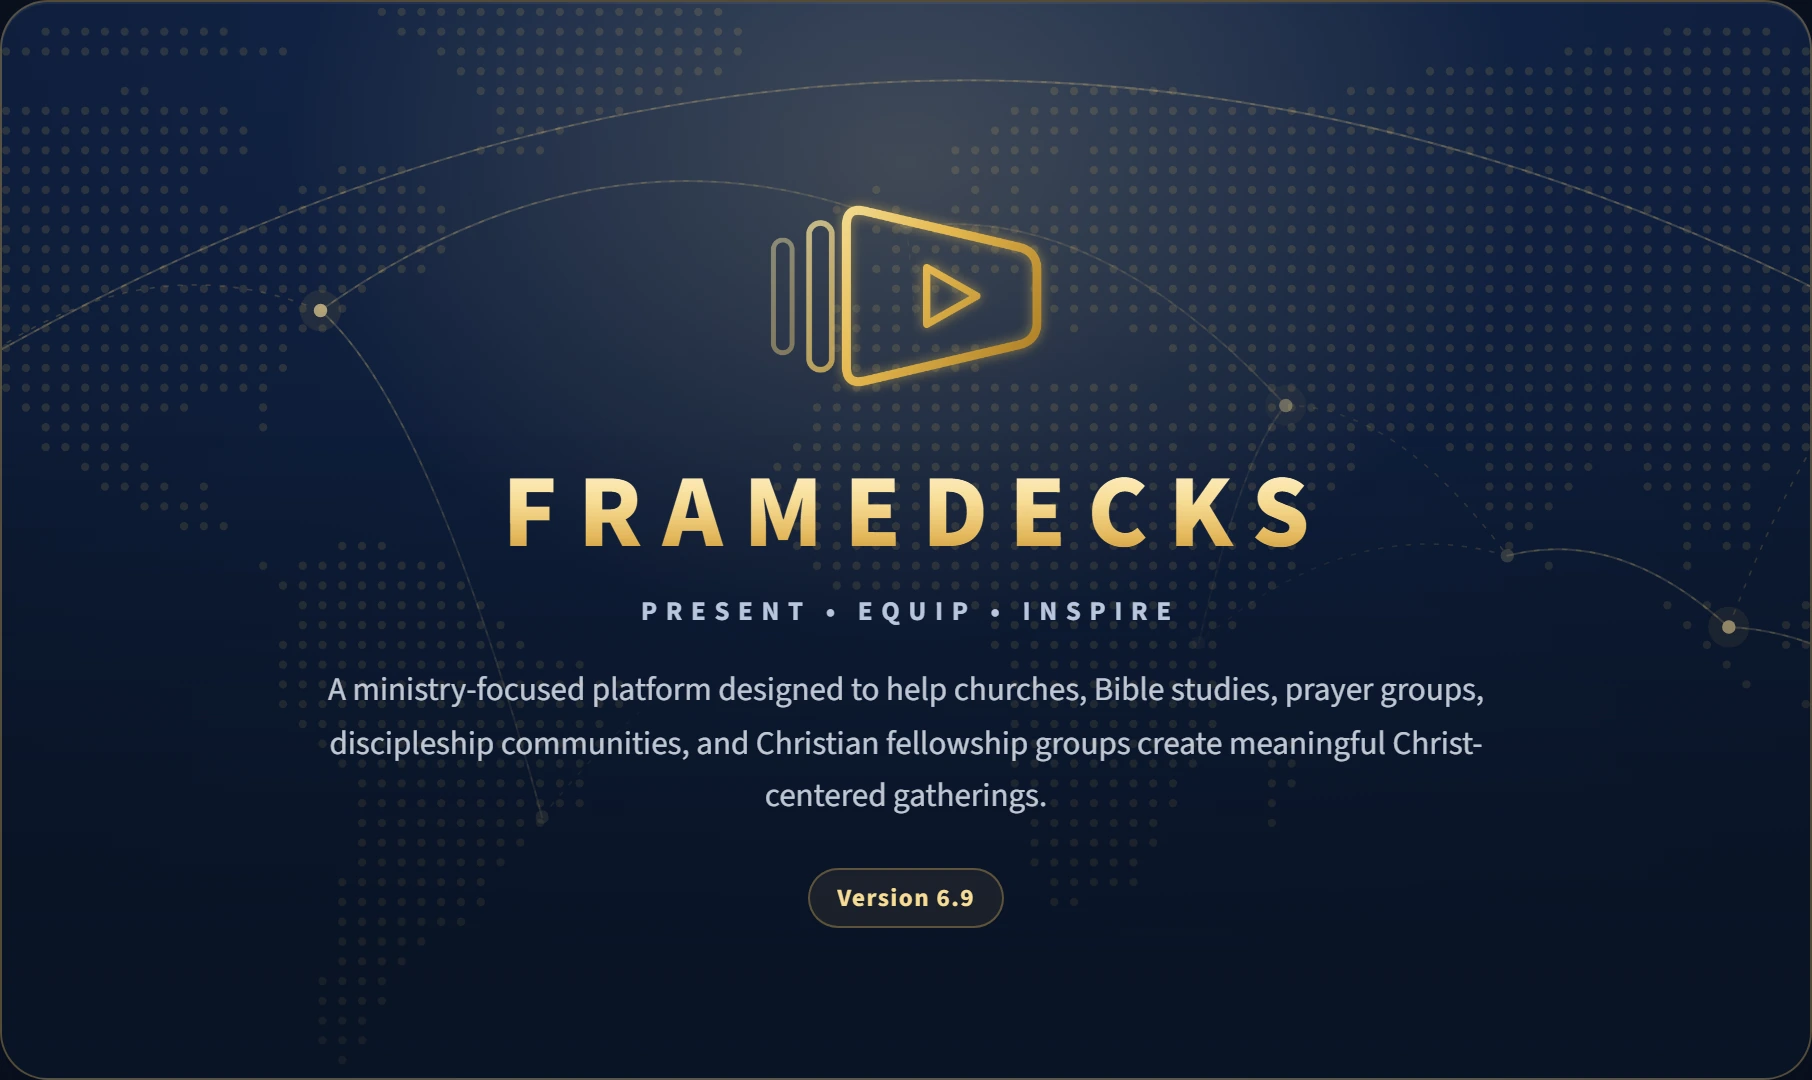
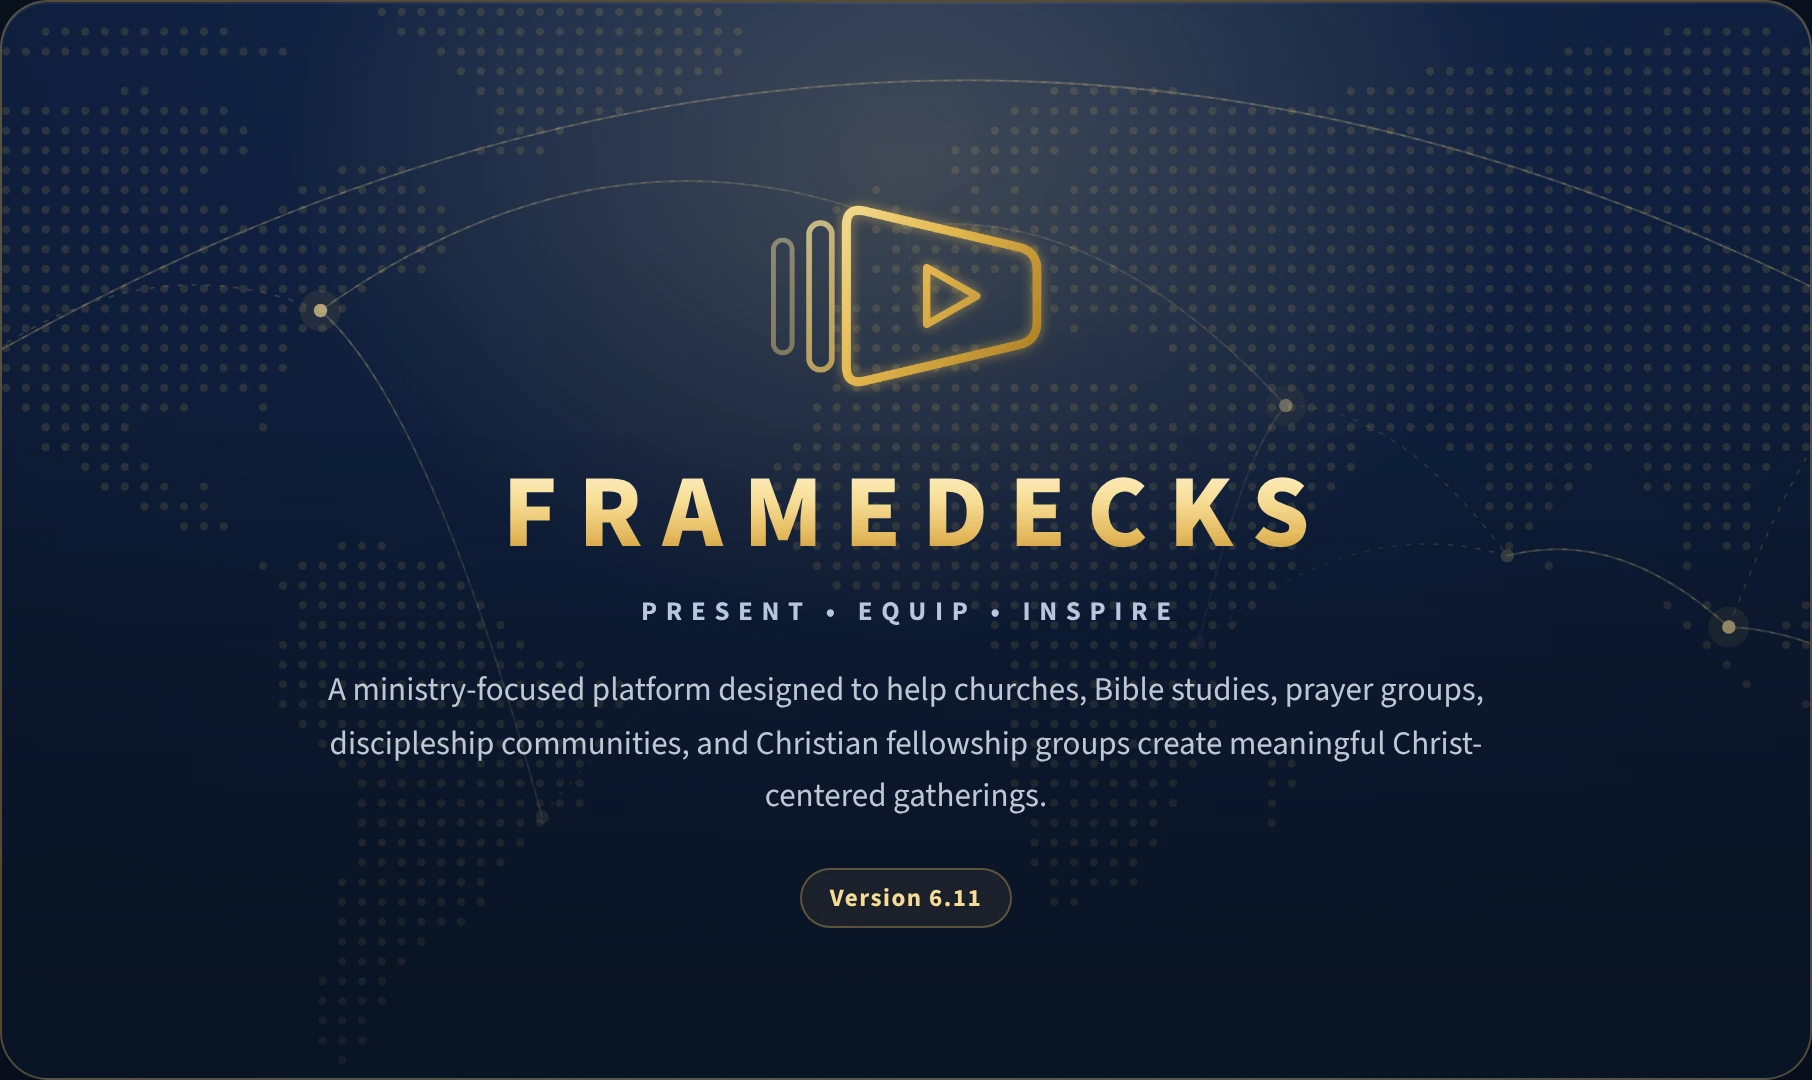
6.11 step 3: Excel Meeting Workbook moves into Settings; version 6.11
Owner decision W2 (docs/architecture/meeting-form.md): the Excel import,
template, export and undo are now only under Settings -> Data / Backup ->
Meeting from Excel, which also points to the website's Meeting Form. The
Meeting menu keeps Export to PowerPoint; the Meeting tab and the empty Studio
no longer show Excel; the palette's one Excel entry opens that Settings page.
Recorded as an owner-approved desktop change in CLAUDE.md. 6.12 removes the
workbook after the owner's live test G (W3).

Version 6.11: server.py, release notes, About header, CHANGELOG; user guides
point to the new place.

Claude-Session: https://claude.ai/code/session_011UFBHaauXC3KrAhyh7CCoG

diff --git a/app/js/workspace.js b/app/js/workspace.js
@@ -335,7 +335,6 @@ function renderScenes(){
     if (live.scenes.length){ ol.appendChild(h('li', {cls: 'pane-empty', text: 'No Frames match.'})); return; }
     ol.appendChild(h('li', {cls: 'pane-empty start'}, [h('b', {text: 'Ready when you are'}), h('span', {text: 'Quick Start makes a full set of Frames for a Bible study, prayer meeting, youth gathering or fellowship meeting in one click.'}),
       h('button', {cls: 'btn primary small', type: 'button', html: I('sparkles', 15) + ' Quick Start', onclick: function(){ openQuickStart(); }}),
-      h('button', {cls: 'btn small', type: 'button', html: I('file-text', 15) + ' Import from Excel', onclick: function(){ if (window.KCMeetingImport) window.KCMeetingImport.pick(); }}),
       h('button', {cls: 'btn quiet small', type: 'button', text: 'Browse the Library', onclick: function(){ setFilter('tpl'); }})]));
     return;
   }
@@ -452,13 +451,9 @@ var TPL_ICON = {'bible-study': 'book-open', scripture: 'book-open', question: 'm
 $('scene-add').addEventListener('click', function(e){ e.stopPropagation(); newScene('blank'); });
 /* Meeting: ready-made Frames, the Excel workbook and Frame files (never part of + Frame) */
 function meetingMenu(anchor){
-  var saved = live.scenes.filter(function(s){ return s.tpl; }), MI = window.KCMeetingImport;
-  var items = [{label: 'Meeting'},
-    MI ? {icon: 'file-spreadsheet', text: 'Import meeting from Excel…', run: MI.pick} : null,
-    MI ? {icon: 'arrow-down', text: 'Download the Excel template', run: MI.template} : null,
-    MI && MI.exportMeeting ? {icon: 'external-link', text: 'Export this meeting to Excel', run: MI.exportMeeting} : null,
+  var saved = live.scenes.filter(function(s){ return s.tpl; });
+  var items = [{label: 'Meeting'},              /* 6.11: the Excel workbook is under Settings → Data / Backup */
     Store.served ? {icon: 'presentation', text: 'Export this meeting to PowerPoint', run: exportPowerPoint} : null,
-    MI && MI.canUndo() ? {icon: 'refresh-cw', text: 'Undo the last Excel import', run: MI.undo} : null,
     '-', {label: 'Ready-made Frames'},
     {icon: 'sparkles', text: 'Quick Start…', run: openQuickStart}, {icon: 'library', text: 'Browse the Content Library', run: function(){ setFilter('tpl'); }}];
   if (saved.length){ items.push('-', {label: 'From your templates'}); saved.forEach(function(t){ items.push({icon: 'layout-template', text: t.name, run: function(){ fromTemplate(t.id); }}); }); }

diff --git a/app/js/palette.js b/app/js/palette.js
@@ -49,7 +49,7 @@ var SECTIONS = [['general', 'General', 'appearance theme dark light'], ['meeting
   ['ipad', 'Phone & iPad Remote', 'remote pin qr phone tablet'], ['keys', 'Keyboard shortcuts', 'keys hotkeys palette'], ['security', 'Security', 'pin privacy'],
   ['data', 'Data / Backup', 'backup restore export import'], ['diag', 'Diagnostics', 'problems errors logs'], ['about', 'About', 'version credits']];
 function commands(){
-  var PT = window.KCPresenterTools, TP = window.KCTeleprompter, MI = window.KCMeetingImport, sel = W() && W().selected();
+  var PT = window.KCPresenterTools, TP = window.KCTeleprompter, sel = W() && W().selected();
   var c = [
     ['golive', 'Go Live', 'take selected frame on screen', function(){ if (W()) W().take(); }, 'T'],
     ['next', 'Next Frame', 'forward advance', function(){ if (W()) W().step(1); }, ']'],
@@ -66,9 +66,7 @@ function commands(){
     ['prompterwin', 'Teleprompter window', 'second screen speaker view', function(){ if (PT && PT.speaker) PT.speaker(); }],
     ['overlay', 'Teleprompter overlay (over Zoom / Teams)', 'meeting leader transparent see-through glass on top prompter', function(){ if (PT && PT.overlay) PT.overlay(); }, 'Shift+R'],
     ['share', 'Share Window (Presentation window)', 'present window zoom share screen', function(){ studio(); click($('s2-present')); }],
-    ['export', 'Export this meeting (Excel)', 'save workbook xlsx download', function(){ if (MI) MI.exportMeeting(); }],
-    ['import', 'Import a meeting from Excel…', 'workbook xlsx open', function(){ if (MI) MI.pick(); }],
-    ['template', 'Download the Excel template', 'workbook xlsx', function(){ if (MI) MI.template(); }],
+    ['excel', 'Meeting from Excel (Settings → Data / Backup)', 'import export template workbook xlsx', function(){ settings('data'); }],   /* 6.11: Excel lives in Settings */
     ['branding', 'Open Branding', 'logo meeting name colour', function(){ settings('meeting'); }],
     ['knock', 'Remove the logo background', 'transparent png', function(){ if (window.KCBrandSettings) window.KCBrandSettings.removeBackground(); }],
     ['camera', 'Camera background (blur, image)', 'kingdomconnect blur background', function(){ settings('vcam'); }],

diff --git a/app/js/meeting-brand.js b/app/js/meeting-brand.js
@@ -218,11 +218,7 @@ function build(){
     h('div', {cls: 'actions mb-acts'}, [
       h('button', {cls: 'btn small', type: 'button', html: I('star', 15) + ' Add a Meeting Title Frame', onclick: function(){ addLib('lib-meeting-title'); }}),
       h('button', {cls: 'btn small', type: 'button', html: I('panel-bottom', 15) + ' Add a Meeting lower third Frame', onclick: function(){ addLib('lib-meeting-lower'); }})]),
-    h('div', {cls: 'actions mb-acts'}, [
-      h('button', {cls: 'btn small', type: 'button', html: I('file-text', 15) + ' Download the Excel template', onclick: function(){ if (window.KCMeetingImport) window.KCMeetingImport.template(); }}),
-      h('button', {cls: 'btn small', type: 'button', html: I('folder-open', 15) + ' Import a meeting from Excel…', onclick: function(){ if (window.KCMeetingImport) window.KCMeetingImport.pick(); }}),
-      h('button', {cls: 'btn small', type: 'button', html: I('external-link', 15) + ' Export this meeting (Excel)', onclick: function(){ if (window.KCMeetingImport) window.KCMeetingImport.exportMeeting(); }})]),
-    h('p', {cls: 'hint', text: 'The exported file uses the same template (Dashboard and Meeting Form), filled in, so it can be shared with co-leaders and imported again.'})]));
+    h('p', {cls: 'hint', text: 'Excel import and export are in Settings → Data / Backup (6.11).'})]));
 }
 function addLib(id){
   var made = null;

diff --git a/app/dashboard.html b/app/dashboard.html
@@ -451,6 +451,16 @@
       </div>
       <p class="hint">Everything is saved automatically on this computer. Backup files let you move your lists to another computer.</p>
     </section>
+    <section class="box" aria-labelledby="s-excel">
+      <div class="box-head"><h2 id="s-excel">Meeting from Excel</h2></div>
+      <p class="plain">Plan meetings on the FRAMEDECKS website’s <b>Meeting Form</b>: it reaches this PC by itself once the PC is linked (Settings → FRAMEDECKS account). The Excel Meeting Workbook still works here.</p>
+      <div class="actions">
+        <button class="btn small" type="button" id="s-xl-import">Import a meeting from Excel…</button>
+        <button class="btn small" type="button" id="s-xl-template">Download the Excel template</button>
+        <button class="btn small" type="button" id="s-xl-export">Export this meeting (Excel)</button>
+        <button class="btn quiet small" type="button" id="s-xl-undo">Undo the last Excel import</button>
+      </div>
+    </section>
   <section class="box" aria-labelledby="s-data">
     <div class="box-head"><h2 id="s-data">Member data &amp; privacy</h2></div>
     <p class="plain" id="s-members-where">Member information stays on this computer. It is never uploaded, and it is never sent to the overlay pages. The birthday overlay only receives the greeting, the name, and the country if you choose to show it.</p>

diff --git a/app/js/meeting-import.js b/app/js/meeting-import.js
@@ -263,5 +263,11 @@ function undoImport(){
   });
 }
 
+/* 6.11 (owner decision W2): the Excel workbook is reached from Settings → Data / Backup only */
+[['s-xl-import', pick], ['s-xl-template', template], ['s-xl-export', exportMeeting],
+  ['s-xl-undo', function(){ if (undo) undoImport(); else toast('There is no Excel import to undo.'); }]].forEach(function(b){
+  var el = document.getElementById(b[0]); if (el) el.addEventListener('click', b[1]);
+});
+
 window.KCMeetingImport = {pick: pick, read: read, template: template, exportMeeting: exportMeeting, undo: function(){ undoImport(); }, canUndo: function(){ return !!undo; }};
 })();

diff --git a/server.py b/server.py
@@ -36,7 +36,7 @@ import ai           # M-D3: optional AI, free by default (Ollama on this PC); hi
 import legacy   # 6.9: moves data saved under the program's earlier name
 import meeting_form   # 6.9: fills the Meeting Workbook's form for Export
 
-APP_VERSION = "6.10"
+APP_VERSION = "6.11"
 STARTED_AT = time.time()
 FROZEN = getattr(sys, "frozen", False)          # True inside the installed Windows app
 HERE = Path(sys.executable).resolve().parent if FROZEN else Path(__file__).resolve().parent

diff --git a/docs/reference/meeting-workbook-and-branding.md b/docs/reference/meeting-workbook-and-branding.md
@@ -17,16 +17,17 @@ bulk-editing** tool. After an import, the app is the source of truth: the file i
 a fresh copy.
 
 ### Where
-**Meeting** (the ✨ button next to + Frame) has three items:
+**Settings → Data / Backup → Meeting from Excel** (6.11; before that the ✨ Meeting menu) has these buttons. The website's Meeting Form
+([meeting-form.md](../architecture/meeting-form.md)) plans the same meeting online.
 - **Download the Excel template**: `templates/FRAMEDECKS-Meeting-Workbook.xlsx`. It opens on the **Dashboard**,
   with an example meeting already filled in on the **Meeting Form**. Type over the examples.
-- **Import meeting from Excel…**:
+- **Import a meeting from Excel…**:
   1. A preview shows the meeting, the Frames, Content, questions and scriptures that will be made, and every problem
      with where it is, for example *Meeting Form · Content · row 26: …*.
   2. Choose **Append** or **Replace**.
   3. Scripture text left empty is filled from the ESV.
   4. **Undo** is offered afterwards.
-- **Export this meeting to Excel**: the same **Dashboard** and **Meeting Form**, filled in with this meeting. An
+- **Export this meeting (Excel)**: the same **Dashboard** and **Meeting Form**, filled in with this meeting. An
   export imports again.
 
 ### The two tabs
@@ -96,7 +97,7 @@ The Dashboard fills itself in from the Meeting Form. It has only formulas, so th
   tiles count them.
 
 ### Import
-**Meeting → Import meeting from Excel…** reads the **Meeting Form**. It finds the details by their labels (for
+**Import a meeting from Excel…** reads the **Meeting Form**. It finds the details by their labels (for
 example *Speaker name*) and each table by its header row (the row starting with **Frame #**). So a form you make by
 hand in the same style imports too. A numbered heading such as *7 · Discussion questions* ends the table above it.
 
@@ -109,7 +110,7 @@ hand in the same style imports too. A numbered heading such as *7 · Discussion 
 - The v6.2 one-sheet template ("Scene Name" column; sections 1–4 below).
 
 ### Export
-**Meeting → Export this meeting to Excel** gives the same **Dashboard** and **Meeting Form**, filled in with this
+**Export this meeting (Excel)** gives the same **Dashboard** and **Meeting Form**, filled in with this
 meeting. The program fills in the template, so the file looks exactly like the one you download. It imports again.
 - If the FRAMEDECKS program isn't running, or a table has more rows
   than the form has room for, a plain one-sheet **Meeting Form** is saved instead. It imports again too.

diff --git a/docs/service-planning.md b/docs/service-planning.md
@@ -143,18 +143,23 @@ row to that log after each meeting, and the meeting tiles count them.
 
 Full details are in [reference/meeting-workbook-and-branding.md](reference/meeting-workbook-and-branding.md).
 
+Since 6.11 the same form is on the FRAMEDECKS website: **Meeting Form** in the companion
+(framedecks.pages.dev). It reaches a linked PC by itself, with no file to import
+([design](architecture/meeting-form.md)). The Excel workbook below still works; it is under
+**Settings → Data / Backup → Meeting from Excel** and leaves the program in 6.12.
+
 ### Import a meeting
-1. **Meeting → Download the Excel template**, then fill in the **Meeting Form** tab.
-2. **Meeting → Import meeting from Excel…** and choose the file.
+1. **Settings → Data / Backup → Meeting from Excel** → **Download the Excel template**, then fill in the **Meeting Form** tab.
+2. **Import a meeting from Excel…** (same place) and choose the file.
 3. Read the **preview**. It lists the Frames and Content that will be made, and every problem with where it is, for
    example *Meeting Form · Content · row 26*. Fix problems in Excel and import again.
 4. Choose **Append** (add to what you have) or **Replace**.
-5. Changed your mind? **Meeting → Undo the last Excel import**.
+5. Changed your mind? **Undo the last Excel import** (same place in Settings).
 
 Workbooks from earlier versions (one sheet per list, from 6.5 to 6.8, or the 6.2 one-sheet template) still import.
 
 ### Export a meeting
-**Meeting → Export this meeting to Excel** saves the same **Dashboard** and **Meeting Form**, filled in, to your
+**Export this meeting (Excel)** (**Settings → Data / Backup → Meeting from Excel**) saves the same **Dashboard** and **Meeting Form**, filled in, to your
 Downloads folder. You can edit that file and import it again, or give it to a co-leader.
 
 > **Important:** After an import, **the app is the source of truth**. The Excel file is not linked. Changes you make

diff --git a/PROJECT_ROADMAP.md b/PROJECT_ROADMAP.md
@@ -20,7 +20,7 @@ Updated 26 October 2026. PR #32 is merged; the live Supabase database has every 
 | Stream Deck plugin (owner's choice) | Built on PR #32 (`streamdeck/`, CI artifact); owner tests it on a PC with a Stream Deck |
 | Target architecture migration ([review](docs/architecture-review.md), [plan](docs/migration-plan.md), [report](docs/post-migration-report.md)) | All 8 steps built on PR #32 (owner decisions M-D1–M-D6, 25 Oct): audit log, ESV key, missing-media check, API grants, licence and signing, members from the cloud, free AI (Ollama), PowerPoint export and Audio, member groups. Merged; database scripts run live (26 Oct). Next: live tests |
 | Free for everyone ([free-hosting.md](docs/project/free-hosting.md)) | In progress: 1 static companion (live at framedecks.pages.dev); 2 keep-alive and encrypted backup (live, first runs green); 3 fewer database requests (done); 4 sign-in providers first (live: Google and Microsoft; Brevo skipped); 5 public repo, signing, Releases (owner) |
-| 6.11: plan on the website ([meeting-form.md](docs/architecture/meeting-form.md)) | In progress: 1 camera check and Open FRAMEDECKS link (built); 2 website Meeting Form (built); 3 Excel import into Settings, then 6.11. 6.12 removes Excel after the owner's test (W3) |
+| 6.11: plan on the website ([meeting-form.md](docs/architecture/meeting-form.md)) | In progress: 1 camera check and Open FRAMEDECKS link (built); 2 website Meeting Form (built); 3 Excel into Settings, version 6.11 (built); owner test G. 6.12 removes Excel after the owner's test (W3) |
 | Hosting long term ([hosting.md](docs/architecture/hosting.md)) | Recommended: companion to Cloudflare (static) before a public launch; Supabase Free → Pro when churches depend on it |
 | Later (not designed yet) | Asset references (size/hash) across PCs; on-screen missing-media line (needs approval); auto-update; a shared Template Store |
 | Real-device PWA acceptance, operations | Later |

diff --git a/docs/releases/v6.11.md b/docs/releases/v6.11.md
@@ -1,0 +1,30 @@
+## FRAMEDECKS v6.11
+
+Plan the whole meeting on the FRAMEDECKS website. Download **FRAMEDECKS v6.11.exe** below and run it. It installs
+over earlier versions and keeps all your data. A `.sha256` file is attached so you can check the download.
+
+## What's New
+- **The Meeting Form on the website** (framedecks.pages.dev → Meeting Form). It has the same sections as the Excel
+  Meeting Form: meeting details, Frames, their Content, discussion questions and scripture readings. Add, change,
+  move and delete Frames there; a linked PC shows them within about a minute, laid out as an Excel import would.
+  Owners and admins edit; everyone else reads.
+- **Open FRAMEDECKS from the website.** On a Windows PC, the website's Overview checks for the FRAMEDECKS camera and
+  offers either the download or **Open FRAMEDECKS on this PC**. The installer registers that link for you.
+
+## Enhancements
+- The Excel Meeting Workbook (import, template, export and undo) is now in **Settings → Data / Backup**. The
+  Meeting menu, the Meeting tab and the empty Studio no longer show it. The command palette's "Meeting from Excel"
+  opens that Settings page.
+
+## Fixes
+- Nothing new to fix in this release.
+
+## Performance Improvements
+- Planning on the website sends only the Frames that changed; nothing is sent while you present.
+
+## Known Issues
+- Pictures, video, PowerPoint and audio files stay on the service PC. On the website, type the file name as it is
+  in the PC's media folder; the PC's Diagnostics lists any name it cannot find.
+- Scripture added on the website without its text shows the reference until the text is fetched on the PC.
+- The Excel Meeting Workbook leaves the program in 6.12, once the website form has been tested in a real meeting.
+- The installer is still not code-signed, so Windows SmartScreen may ask you to confirm: **More info → Run anyway**.

diff --git a/CLAUDE.md b/CLAUDE.md
@@ -8,7 +8,9 @@ Read this first, then [.ai/NEXT_SESSION.md](.ai/NEXT_SESSION.md).
   `docs/architecture/metadata-sync.md`), which also gets "Allow control from the companion" and its last ten actions
   (R5 in `docs/architecture/remote-control.md`); a toast on the PC for each companion action; and from the migration
   (`docs/migration-plan.md` §8): **Suggest** in a Frame's question list (only when Ollama answers), **Meeting → Export
-  this meeting to PowerPoint**, and **+ Content → Audio…** with its settings. Nothing else visible may change.
+  this meeting to PowerPoint**, and **+ Content → Audio…** with its settings; and 6.11 (`docs/architecture/meeting-form.md`, W2): the Excel Meeting
+  Workbook moved from the Meeting menu, Meeting tab, empty Studio and palette into **Settings → Data / Backup →
+  Meeting from Excel** (it leaves in 6.12, W3). Nothing else visible may change.
 - The codebase is the source of truth; verify docs against it.
 - Do not touch the legacy LAN remote or let the hosted app call the local HTTP server.
 - Never commit secrets. `.env*` is ignored except `hosted/.env.example`. Never the Supabase `service_role` key; the
@@ -108,7 +110,7 @@ Read this first, then [.ai/NEXT_SESSION.md](.ai/NEXT_SESSION.md).
 ## Commands
 - Before and after every change, all of these must pass (the cloud session's last results are in brackets):
 - Desktop JS tests: `node tests/run.js` [4/4]; Python: `python -m unittest discover -s tests -p "test_*.py"` [128 OK];
-  packaging: `python packaging/check.py` [6.10].
+  packaging: `python packaging/check.py` [6.11].
 - Hosted (run inside `hosted/`, there is no root package.json): `npm test` [102/102], `npm run lint`, `npm run typecheck`, `npm run build`.
   `npm test` applies every migration to in-memory Postgres (PGlite) and loads `src/lib/sync-entities.ts` with Node's
   type stripping.

diff --git a/docs/faq.md b/docs/faq.md
@@ -45,7 +45,7 @@ Create a Frame for each part of the service in order, add Content to each, and c
 Yes. **Duplicate** a Frame (⋯ on the Frame) to make a fully independent copy, or **Save as template** to start new Frames from it. You can also export a whole meeting to Excel and import it later.
 
 **Can I plan in Excel?**
-Yes, optionally. The **Meeting Workbook** (Meeting menu → Download the Excel template) has two tabs: the **Meeting Form**, one guided page where you type the meeting details, Frames, Content, questions and scriptures, and the **Dashboard**, which sums it up for you. Import shows every problem with where it is (for example *Meeting Form · Content · row 26*) before anything changes, and can be undone. Workbooks from earlier versions still import. See [Meeting Workbook and branding](reference/meeting-workbook-and-branding.md).
+Yes, optionally. The **Meeting Workbook** (Settings → Data / Backup → Download the Excel template; since 6.11 the website's Meeting Form does the same online) has two tabs: the **Meeting Form**, one guided page where you type the meeting details, Frames, Content, questions and scriptures, and the **Dashboard**, which sums it up for you. Import shows every problem with where it is (for example *Meeting Form · Content · row 26*) before anything changes, and can be undone. Workbooks from earlier versions still import. See [Meeting Workbook and branding](reference/meeting-workbook-and-branding.md).
 
 **Can two people edit the same service at once?**
 No. FRAMEDECKS runs on one PC with no accounts or shared workspaces. To share a plan, export it (Excel Meeting Workbook or a Frame file) and import it on the other PC.
